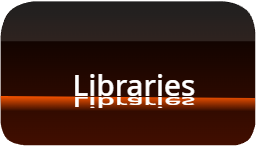
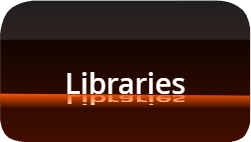
Aoo!

diff --git a/latest/index.html b/latest/index.html
@@ -14,9 +14,9 @@
     <body>
         <div class="store-header">
          <img src="A3N.png" width="140">
-         <button id='latest'>What's New</button>
-         <button id='libs'>Libraries</button>
-         <button id='reload'>Reload</button>
+         <img src="../assets/costume1.png" id='latest' class="button" width="50px">
+         <img src="../assets/costume2.png" id='libs'   class="button" width="50px">
+         <img src="../assets/costume3.png" id='reload' class="button" width="50px">
         </div>
         <h1>What's New? <span class="text-brand-orange-hungry">Let's see.</span></h1>
         <section>

diff --git a/libraries/index.html b/libraries/index.html
@@ -13,9 +13,9 @@
     <body>
         <div class="store-header">
          <img src="./A3N.png" width="140">
-         <button id='latest'>What's New</button>
-         <button id='libs'>Libraries</button>
-         <button id='reload'>Reload</button>   
+         <img src="../assets/costume1.png" id='latest' class="button" width="50px">
+         <img src="../assets/costume2.png" id='libs' class="button" width="50px">
+         <img src="../assets/costume3.png" id='reload' class="button" width="50px">
         </div>
         <h1>Libraries</h1>
         <script src="./whole.js"></script>

diff --git a/incredibox_smart_hub_kuh_treatment/index.html b/incredibox_smart_hub_kuh_treatment/index.html
@@ -13,9 +13,9 @@
     <body>
         <div class="store-header">
          <img src="A3N.png" width="140">
-         <button id='latest'>What's New</button>
-         <button id='libs'>Libraries</button>
-         <button id='reload'>Reload</button>
+         <img src="../assets/costume1.png" id='latest' class="button" width="50px">
+         <img src="../assets/costume2.png" id='libs' class="button" width="50px">
+         <img src="../assets/costume3.png" id='reload' class="button" width="50px">
         </div>
         <p>hash:</p>
         <span id='hash'></span>
